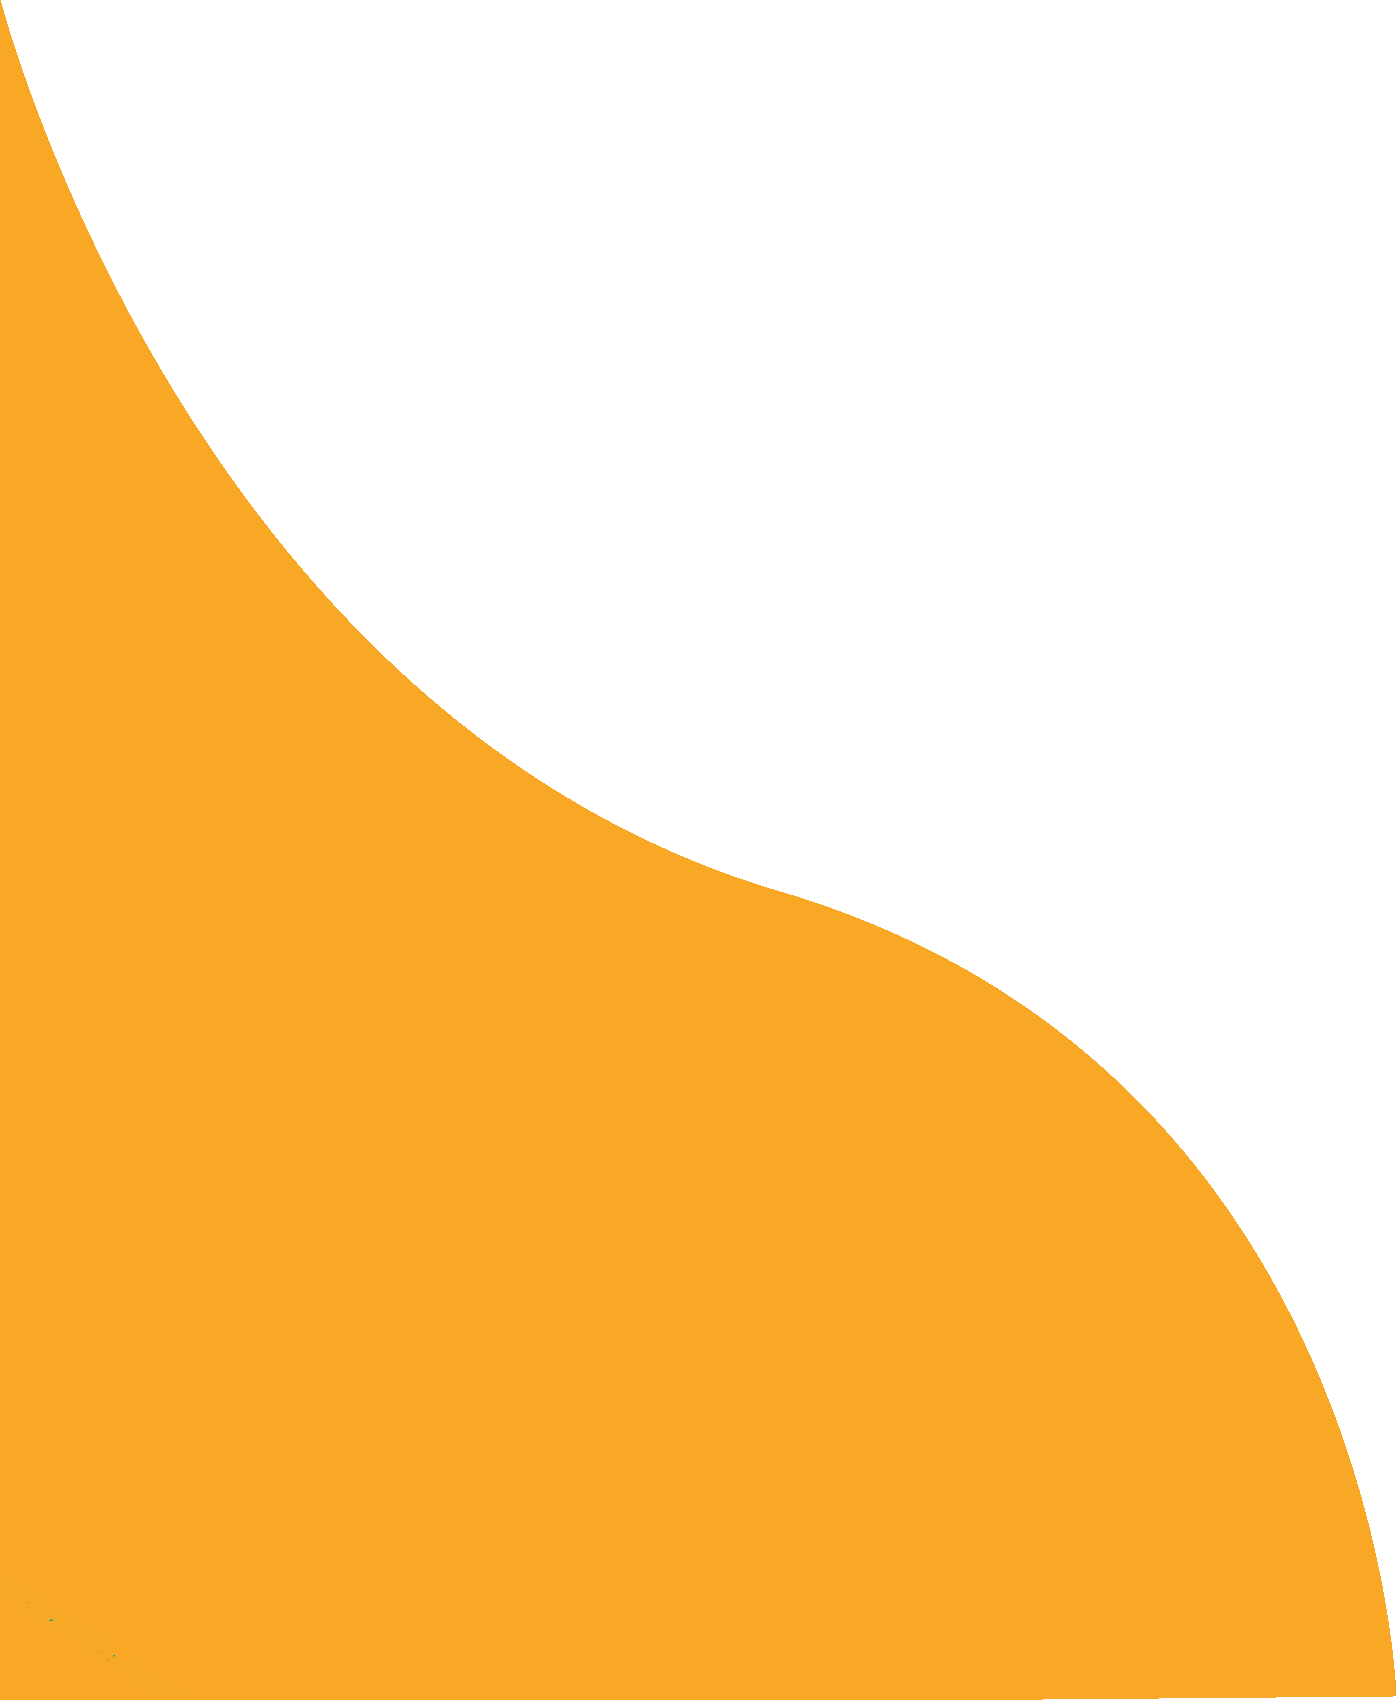
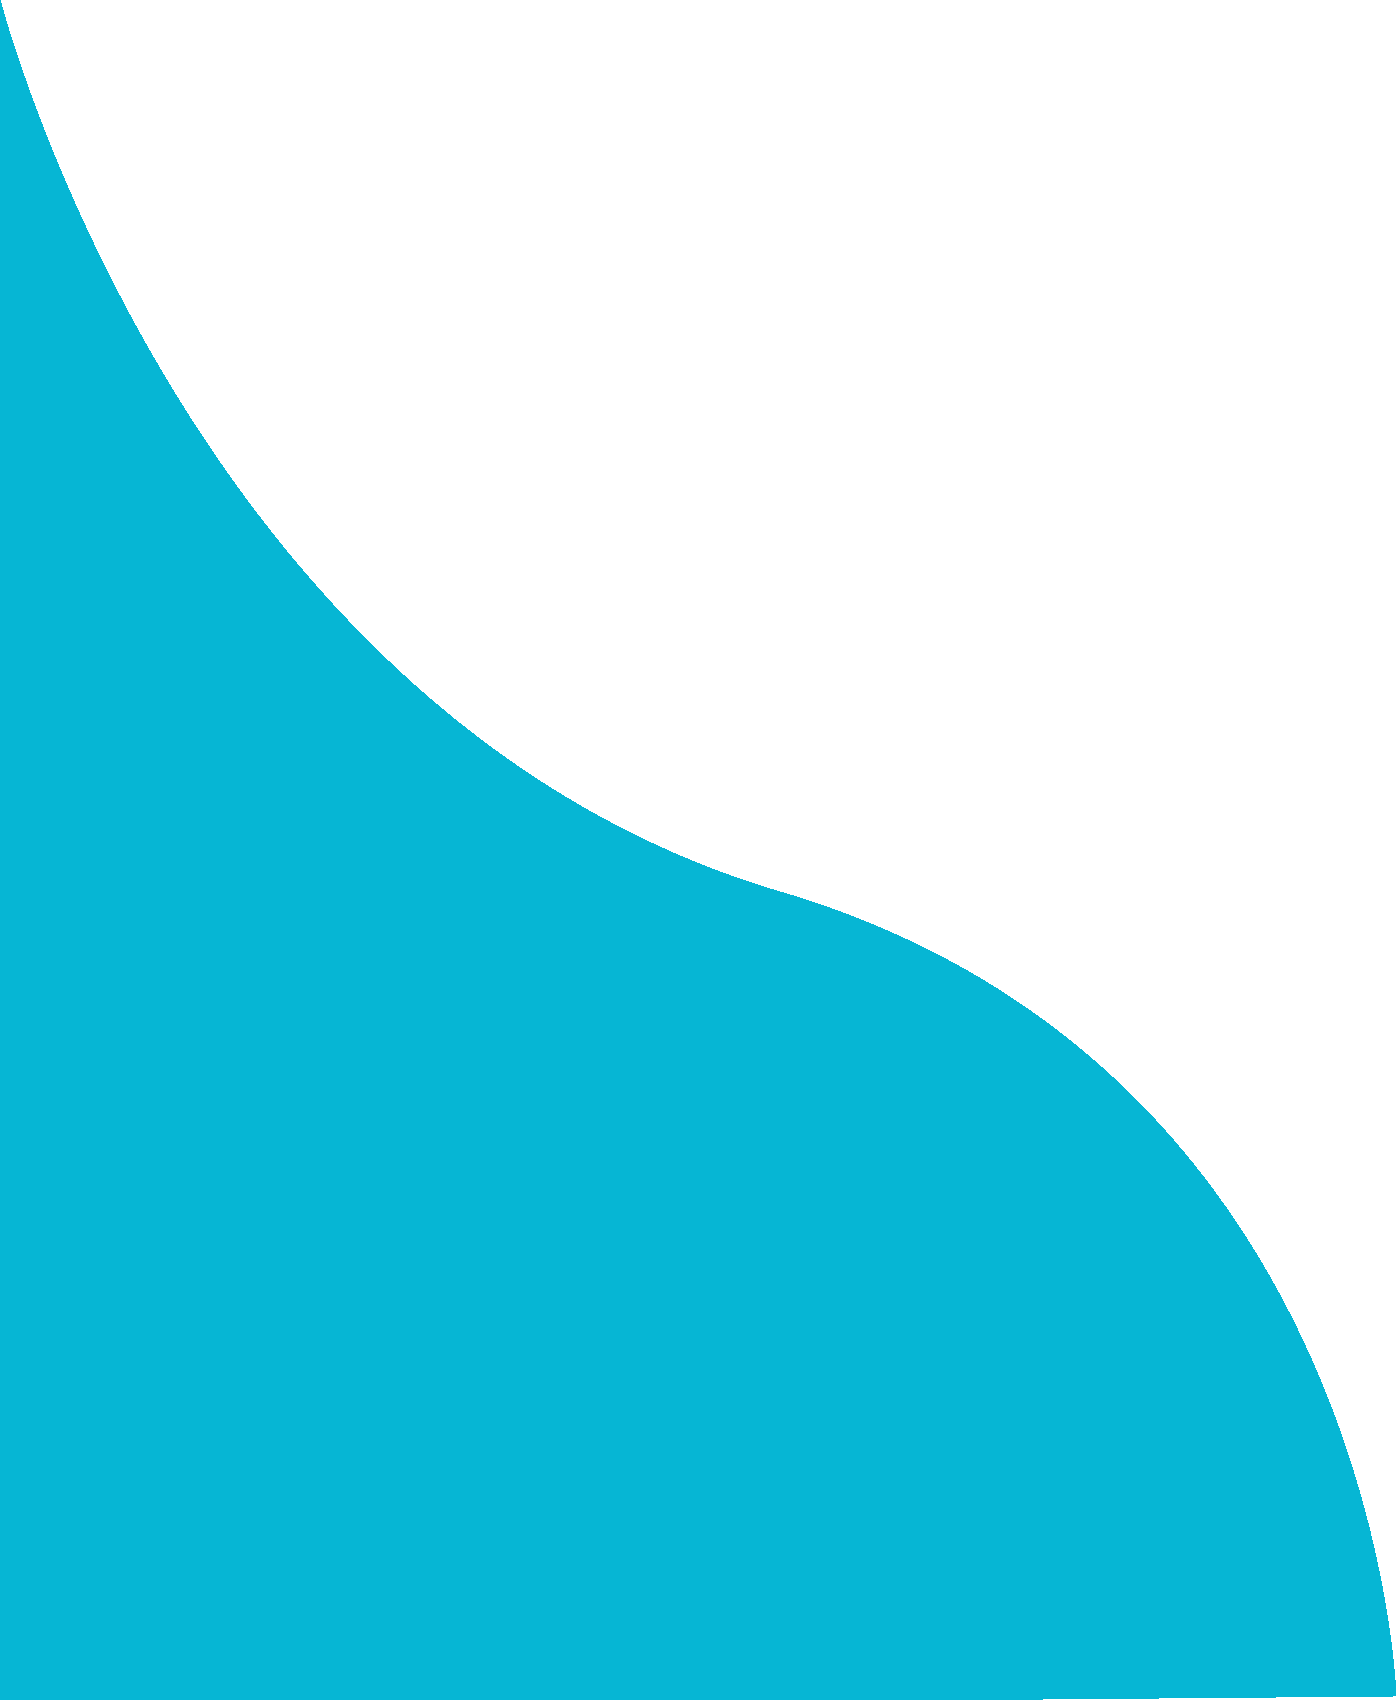
removed wave.png

diff --git a/frontend/src/Pages/SignIn/SignIn.js b/frontend/src/Pages/SignIn/SignIn.js
@@ -1,7 +1,7 @@
 import React from "react";
 import { Link, useLocation } from "react-router-dom";
 import { Helmet } from "react-helmet-async";
-import wave from "./Assets/image.png";
+import wave from "./Assets/wave.png";
 import avatar from "./Assets/avatar.svg";
 import unlock from "./Assets/unlock.svg";
 
